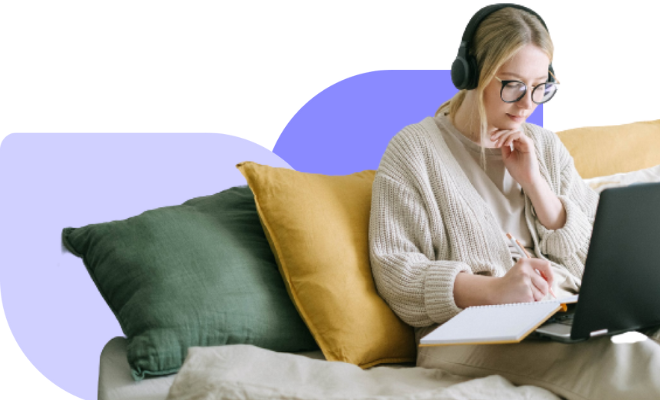
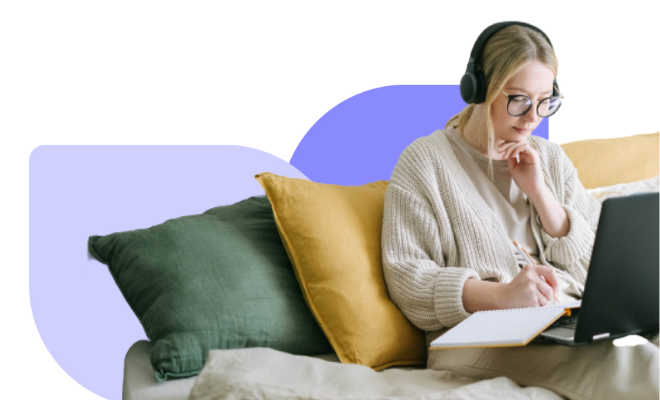
finishes first version of CtaBanner component

diff --git a/src/components/CtaBanner/CtaBanner.jsx b/src/components/CtaBanner/CtaBanner.jsx
@@ -4,23 +4,24 @@ import ctaImage from "../../assets/cta-banner.png";
 
 export const CtaBanner = () => {
   return (
-    <div className="bg-light-purple rounded-ctaBanner h-testimonialContainer py-20 px-16">
-      <div className="flex flex-row">
-        <div className="flex flex-col gap-6 w-textContainer">
-          <div className="font-sans text-3xl font-bold text-off-white tracking-wide">
-            Call to action that invites the visitor to get started
-          </div>
-          <p className="font-sans text-lg font-normal leading-7 text-off-white">
-            Lorem ipsum dolor sit amet, consectetur adipiscing elit. Suspendisse
-            varius enim in eros elementum tristique.
-          </p>
-          <div className="flex pt-4">
-            <Button>Sign Up</Button>
-          </div>
+    <div className="flex flex-row bg-light-purple rounded-ctaBanner h-testimonialContainer py-20 px-16 relative overflow-hidden">
+      <div className="flex flex-col gap-5 w-shortTextContainer">
+        <div className="font-sans text-3xl font-bold text-off-white tracking-wide">
+          Call to action that invites the visitor to get started
         </div>
-
-        <img src={ctaImage} />
+        <p className="font-sans text-lg font-normal leading-7 text-off-white">
+          Lorem ipsum dolor sit amet, consectetur adipiscing elit. Suspendisse
+          varius enim in eros elementum tristique.
+        </p>
+        <div className="flex pt-4">
+          <Button>Sign Up</Button>
+        </div>
       </div>
+      <img
+        src={ctaImage}
+        alt="Cta Banner"
+        className="absolute right-0 bottom-0"
+      />
     </div>
   );
 };

diff --git a/tailwind.config.js b/tailwind.config.js
@@ -24,6 +24,7 @@ module.exports = {
       width: {
         container: "1200px",
         textContainer: "550px",
+        shortTextContainer: "480px",
         imageContainer: "256px",
         headingContainer: "768px",
         card: "346px",
